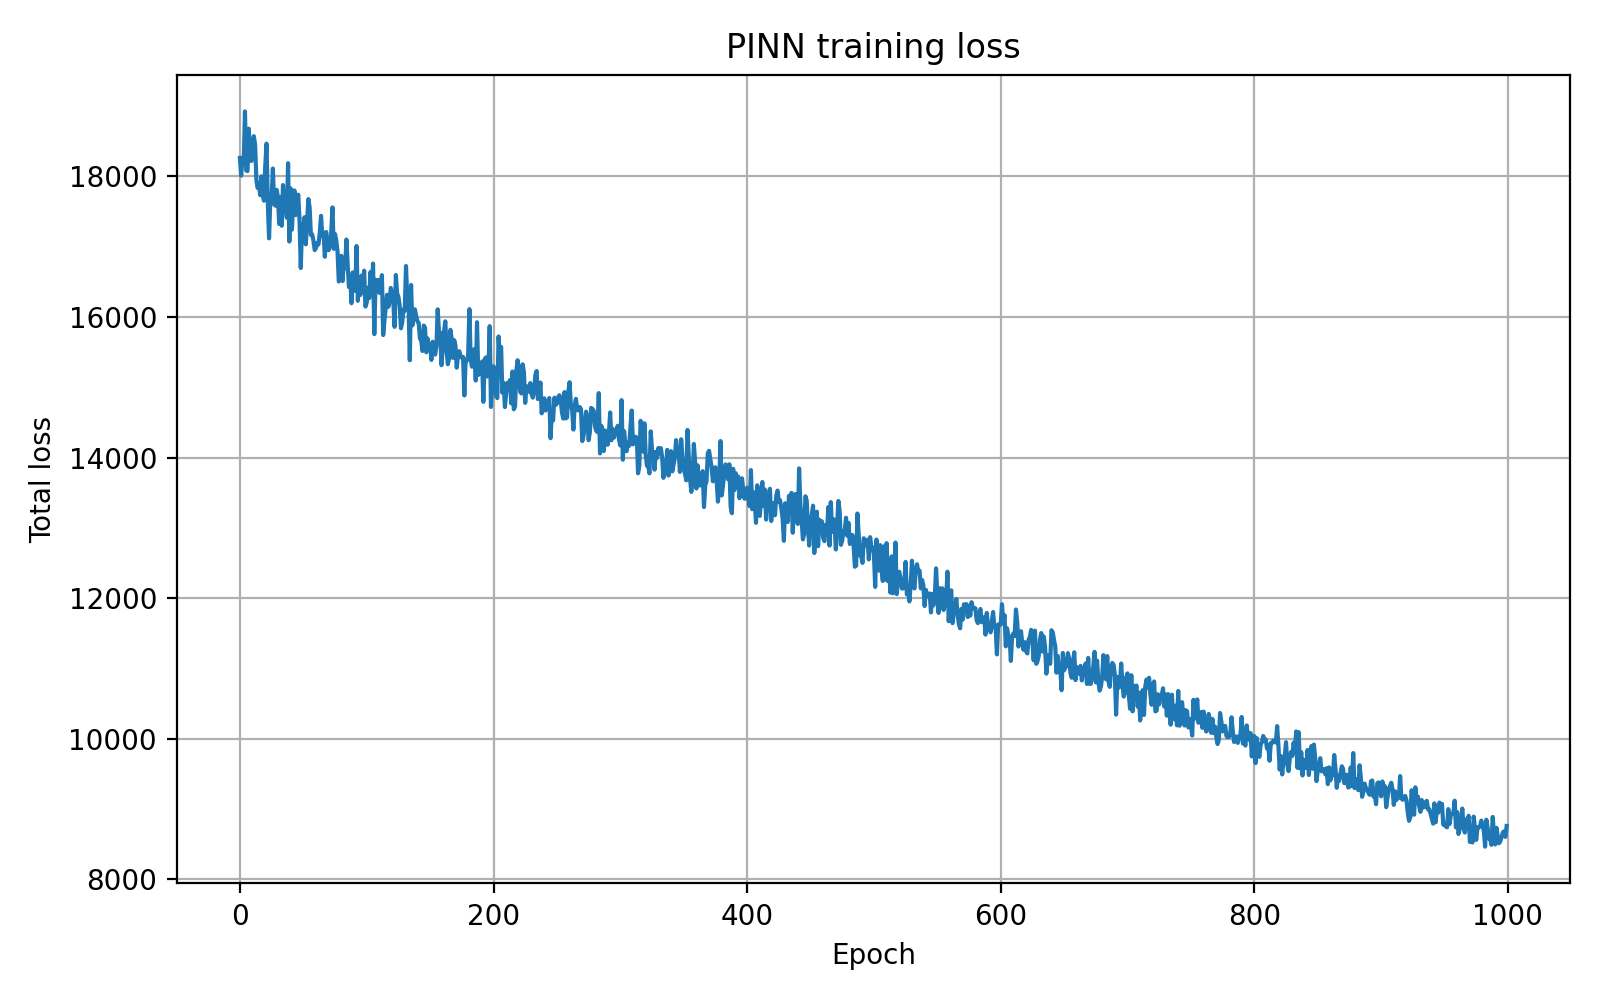
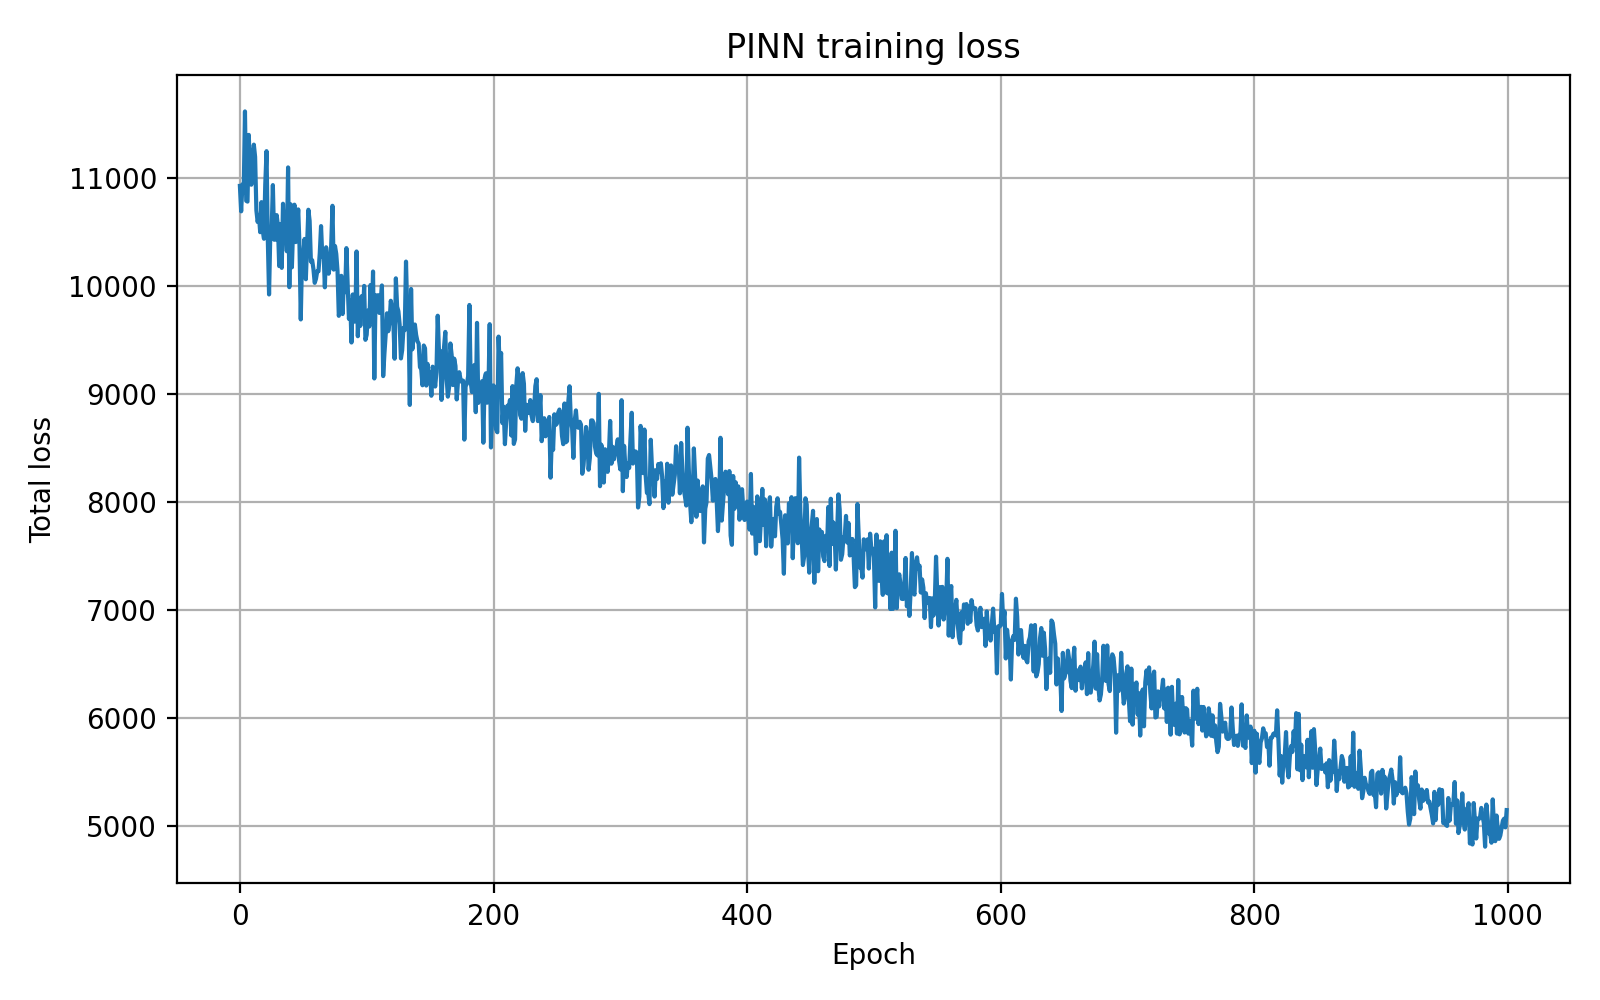
Clean up entrypoints

diff --git a/run_experiments.py b/run_experiments.py
@@ -9,70 +9,11 @@ from pathlib import Path
 import csv
 
 import matplotlib.pyplot as plt
-import numpy as np
 import torch
 from tqdm import trange
 
-from src.black_scholes import european_call_price
-from src.losses import compute_pinn_loss
 from src.pinn_model import PINN
-
-
-def train_model(config):
-    torch.manual_seed(0)
-
-    model = PINN(
-        hidden_dim=config["hidden_dim"],
-        hidden_layers=config["hidden_layers"],
-        T=1.0,
-        S_max=160.0,
-    )
-
-    optimizer = torch.optim.Adam(model.parameters(), lr=config["lr"])
-    loss_history = []
-
-    for _ in trange(config["epochs"], leave=False):
-        optimizer.zero_grad()
-
-        loss, components = compute_pinn_loss(
-            model,
-            n_interior=config["n_interior"],
-            n_terminal=config["n_terminal"],
-            n_boundary=config["n_boundary"],
-            beta=config["beta"],
-        )
-
-        loss.backward()
-        optimizer.step()
-
-        loss_history.append(components["total"])
-
-    return model, loss_history
-
-
-def evaluate_model(model):
-    K = 40.0
-    r = 0.05
-    sigma = 0.2
-    T = 1.0
-    S_max = 160.0
-
-    S_grid = np.linspace(1.0, S_max, 80)
-    t_grid = np.linspace(0.0, T, 80)
-    SS, TT = np.meshgrid(S_grid, t_grid)
-
-    V_true = european_call_price(SS, TT, K=K, r=r, sigma=sigma, T=T)
-
-    t_tensor = torch.tensor(TT.reshape(-1, 1), dtype=torch.float32)
-    S_tensor = torch.tensor(SS.reshape(-1, 1), dtype=torch.float32)
-
-    with torch.no_grad():
-        V_pred = model(t_tensor, S_tensor).numpy().reshape(SS.shape)
-
-    mse = np.mean((V_pred - V_true) ** 2)
-    mae = np.mean(np.abs(V_pred - V_true))
-
-    return mse, mae
+from src.train import evaluate_vs_analytic, train_model
 
 
 def plot_experiment_losses(histories, output_path):
@@ -151,8 +92,29 @@ def main():
     for config in configs:
         print(f"Running experiment: {config['name']}")
 
-        model, loss_history = train_model(config)
-        mse, mae = evaluate_model(model)
+        torch.manual_seed(0)
+
+        model = PINN(
+            hidden_dim=config["hidden_dim"],
+            hidden_layers=config["hidden_layers"],
+            T=1.0,
+            S_max=160.0,
+        )
+
+        optimizer = torch.optim.Adam(model.parameters(), lr=config["lr"])
+
+        loss_history = train_model(
+            model,
+            optimizer,
+            n_epochs=config["epochs"],
+            print_every=0,
+            n_interior=config["n_interior"],
+            n_terminal=config["n_terminal"],
+            n_boundary=config["n_boundary"],
+            beta=config["beta"],
+        )
+
+        mse, mae, *_ = evaluate_vs_analytic(model, grid_size=80)
 
         histories[config["name"]] = loss_history
 

diff --git a/src/train.py b/src/train.py
@@ -1,0 +1,54 @@
+"""
+Shared training loop and evaluation utilities.
+"""
+
+import numpy as np
+import torch
+from tqdm import trange
+
+from src.black_scholes import european_call_price
+from src.losses import compute_pinn_loss
+
+
+def train_model(model, optimizer, n_epochs, print_every=100, **loss_kwargs):
+    loss_history = []
+
+    for epoch in trange(n_epochs):
+        optimizer.zero_grad()
+
+        loss, components = compute_pinn_loss(model, **loss_kwargs)
+
+        loss.backward()
+        optimizer.step()
+
+        loss_history.append(components["total"])
+
+        if print_every and epoch % print_every == 0:
+            print(
+                f"epoch {epoch:4d} | "
+                f"total={components['total']:.4f} | "
+                f"pde={components['pde']:.4f} | "
+                f"terminal={components['terminal']:.4f} | "
+                f"boundary={components['boundary']:.4f}"
+            )
+
+    return loss_history
+
+
+def evaluate_vs_analytic(model, K=40.0, r=0.05, sigma=0.2, T=1.0, S_max=160.0, grid_size=100):
+    S_grid = np.linspace(1.0, S_max, grid_size)
+    t_grid = np.linspace(0.0, T, grid_size)
+    SS, TT = np.meshgrid(S_grid, t_grid)
+
+    V_true = european_call_price(SS, TT, K=K, r=r, sigma=sigma, T=T)
+
+    t_tensor = torch.tensor(TT.reshape(-1, 1), dtype=torch.float32)
+    S_tensor = torch.tensor(SS.reshape(-1, 1), dtype=torch.float32)
+
+    with torch.no_grad():
+        V_pred = model(t_tensor, S_tensor).numpy().reshape(SS.shape)
+
+    mse = np.mean((V_pred - V_true) ** 2)
+    mae = np.mean(np.abs(V_pred - V_true))
+
+    return mse, mae, V_pred, V_true, SS, TT